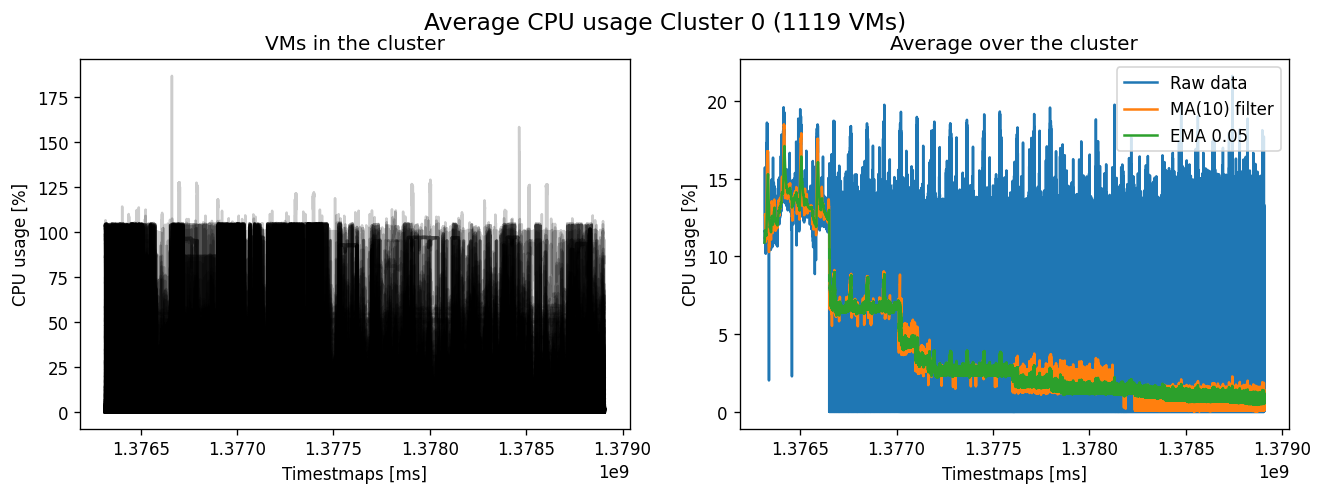
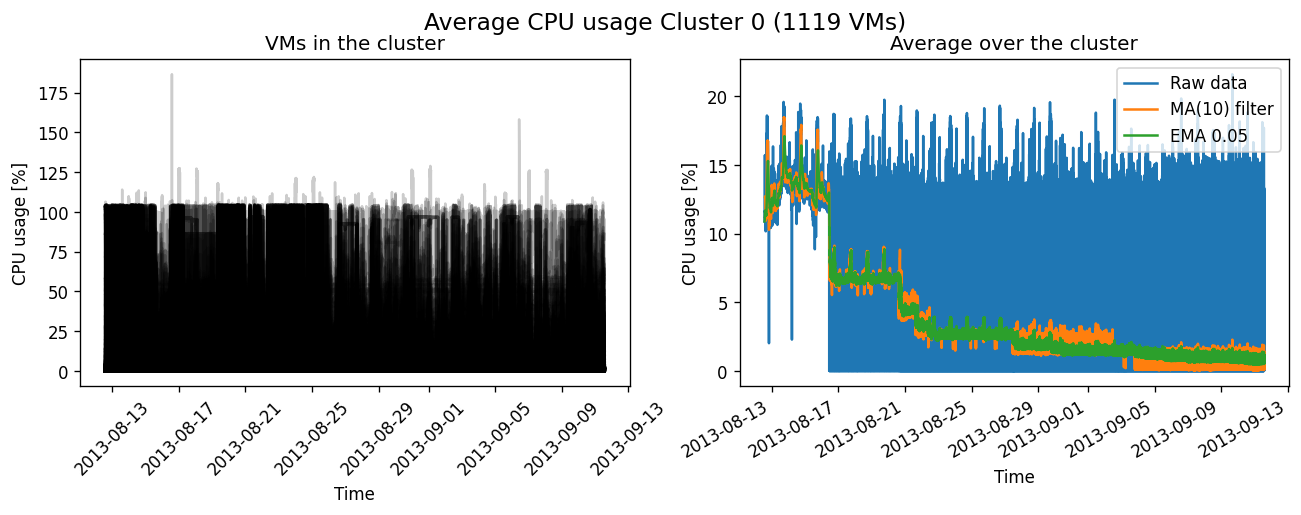
Fixed parsing dates of time series

Changed region(s): [[0.0, 0.0, 1.0, 0.9697], [0.0307, 0.1515, 0.0615, 0.2121], [0.4919, 0.7879, 0.5227, 0.8182]]

diff --git a/DataExploration/BitbrainsUtils.py b/DataExploration/BitbrainsUtils.py
@@ -29,7 +29,10 @@ def load_VM(VM_name: str) -> pd.DataFrame:
     """
     VM_path = os.path.join(DATA_PATH, VM_name)
     # Read time series of each Virtual Machine (VM)
-    VM = pd.read_csv(VM_path, sep=';\t', index_col=0, parse_dates=True, squeeze=True, engine='python')
+    VM = pd.read_csv(VM_path, sep=';\t', engine='python')
+    # Parse dates
+    VM['Timestamp [ms]'] = pd.to_datetime(VM['Timestamp [ms]'], unit='s')
+    VM = VM.set_index('Timestamp [ms]')
     # Create new variable memory usage in %
     VM['Memory usage [%]'] = VM['Memory usage [KB]'] * 100 / VM['Memory capacity provisioned [KB]']
     # Avoid division by 0
@@ -126,7 +129,7 @@ def load_clusters(VMs: List[pd.DataFrame], labels: np.ndarray, n_clusters: int) 
     return clusters
 
 
-def plot_timeSeries(data, MA=10, ema=0.05, legend=True, xlabel=None, ylabel=None, title=None, xlim=None, ylim=None,
+def plot_timeSeries(data, MA=10, ema=0.05, legend=True, xlabel='Time', ylabel=None, title=None, xlim=None, ylim=None,
                     xticks=None, figsize=(8, 6), dpi=120, savefig=None, show=True):
     """ Utility to plot Time Series with moving average filters """
 
@@ -154,7 +157,7 @@ def plot_timeSeries(data, MA=10, ema=0.05, legend=True, xlabel=None, ylabel=None
 
 
 def plot_clusters(data, labels, clusters, n_clusters, shared_axis=False, marker='k-', legend=False,
-                  xlabel='Timestmaps [ms]', ylabel=None, title=None, xlim=None, ylim=None, xticks=None,
+                  xlabel='Time', ylabel=None, title=None, xlim=None, ylim=None, xticks=None,
                   figsize=(13, 4), dpi=120, savefig=None, **kwargs):
     """ Utility to plot VMs of each cluster
 
@@ -193,12 +196,13 @@ def plot_clusters(data, labels, clusters, n_clusters, shared_axis=False, marker=
                 plt.subplot(1, 2, 1)
         for VM in VMs_cluster:
             plt.plot(VM, marker, alpha=.2, **kwargs)
+            plt.xticks(rotation=45)
         if legend: plt.legend()
         if xlim is not None: plt.xlim(xlim)
         if ylim is not None: plt.ylim(ylim)
         if xlabel is not None: plt.xlabel(xlabel)
         if ylabel is not None: plt.ylabel(ylabel)
-        if xticks is not None: plt.xticks(xticks)
+        if xticks is not None: plt.xticks(xticks, rotation=45)
         plt.title('VMs in the cluster')
 
         if savefig is not None:
